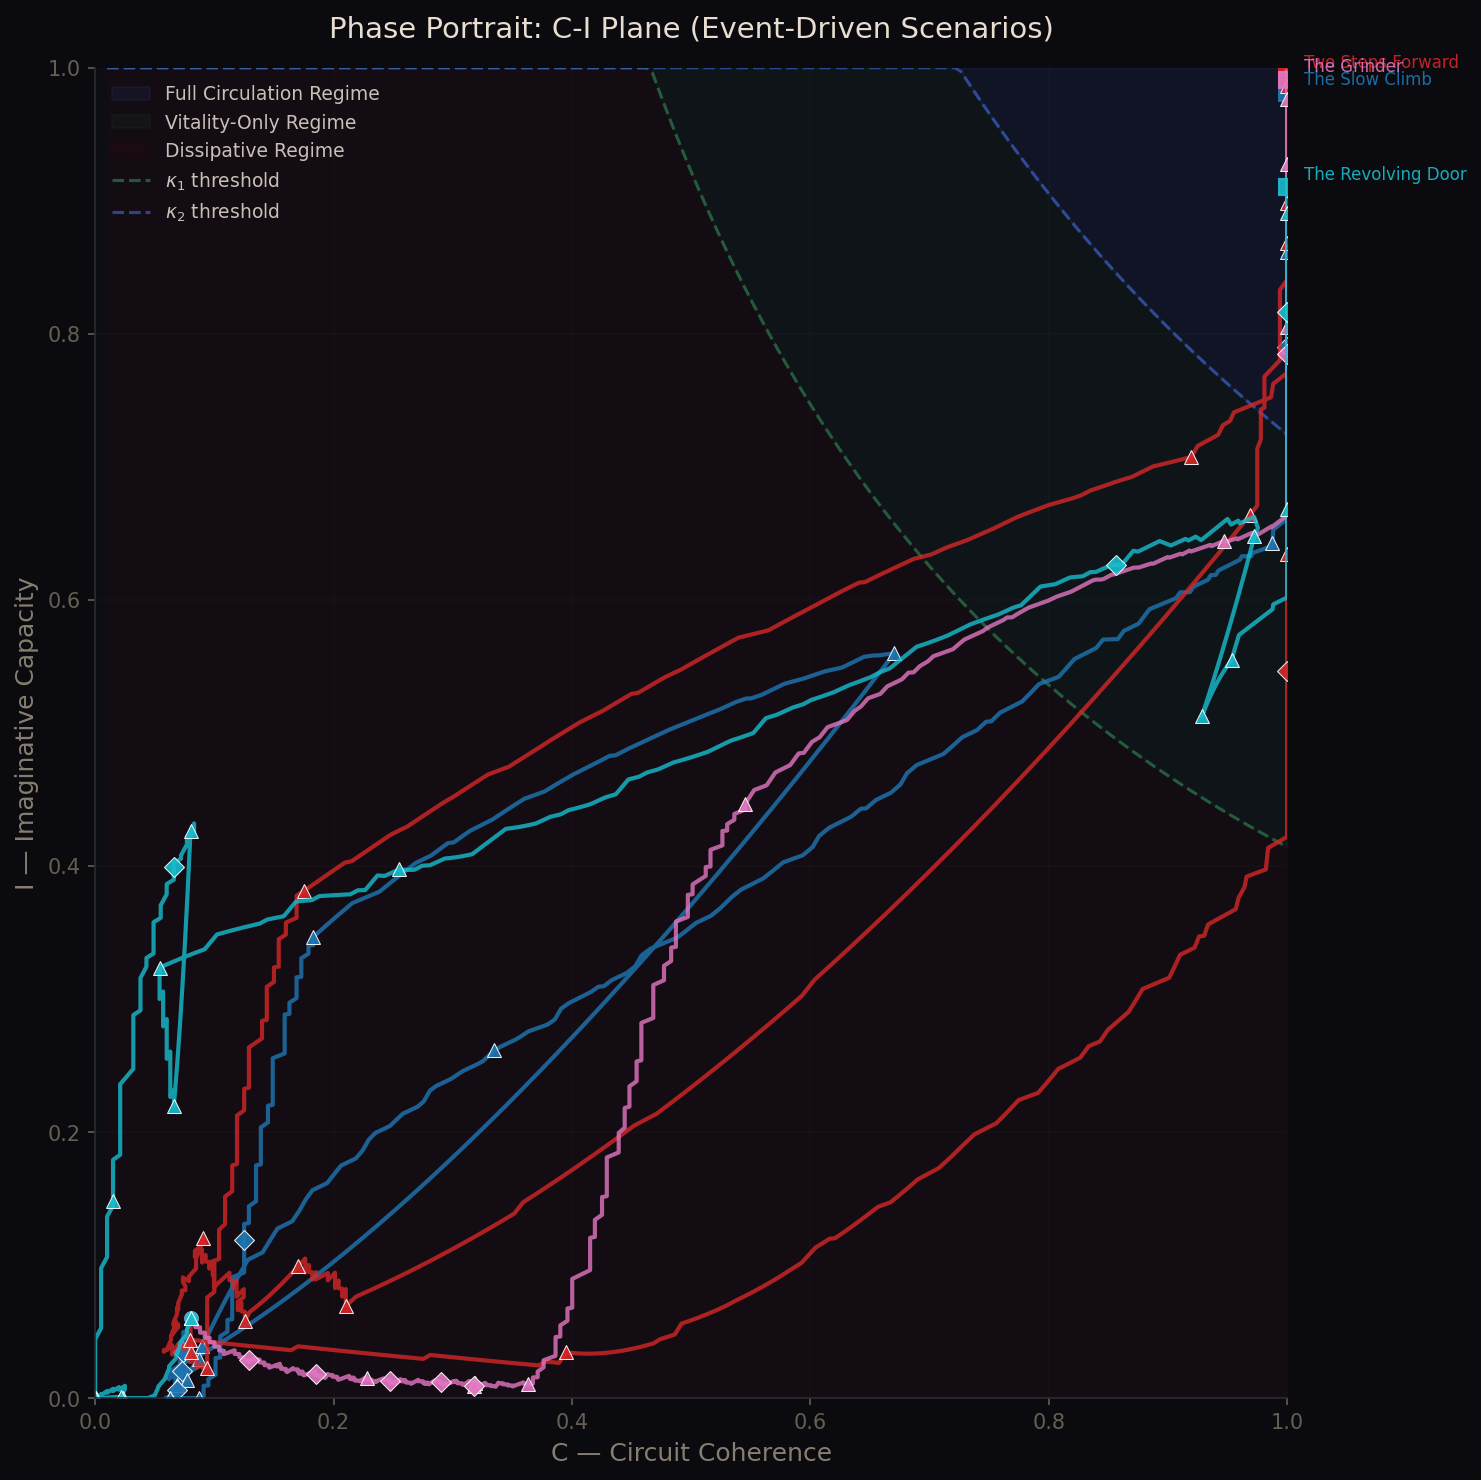
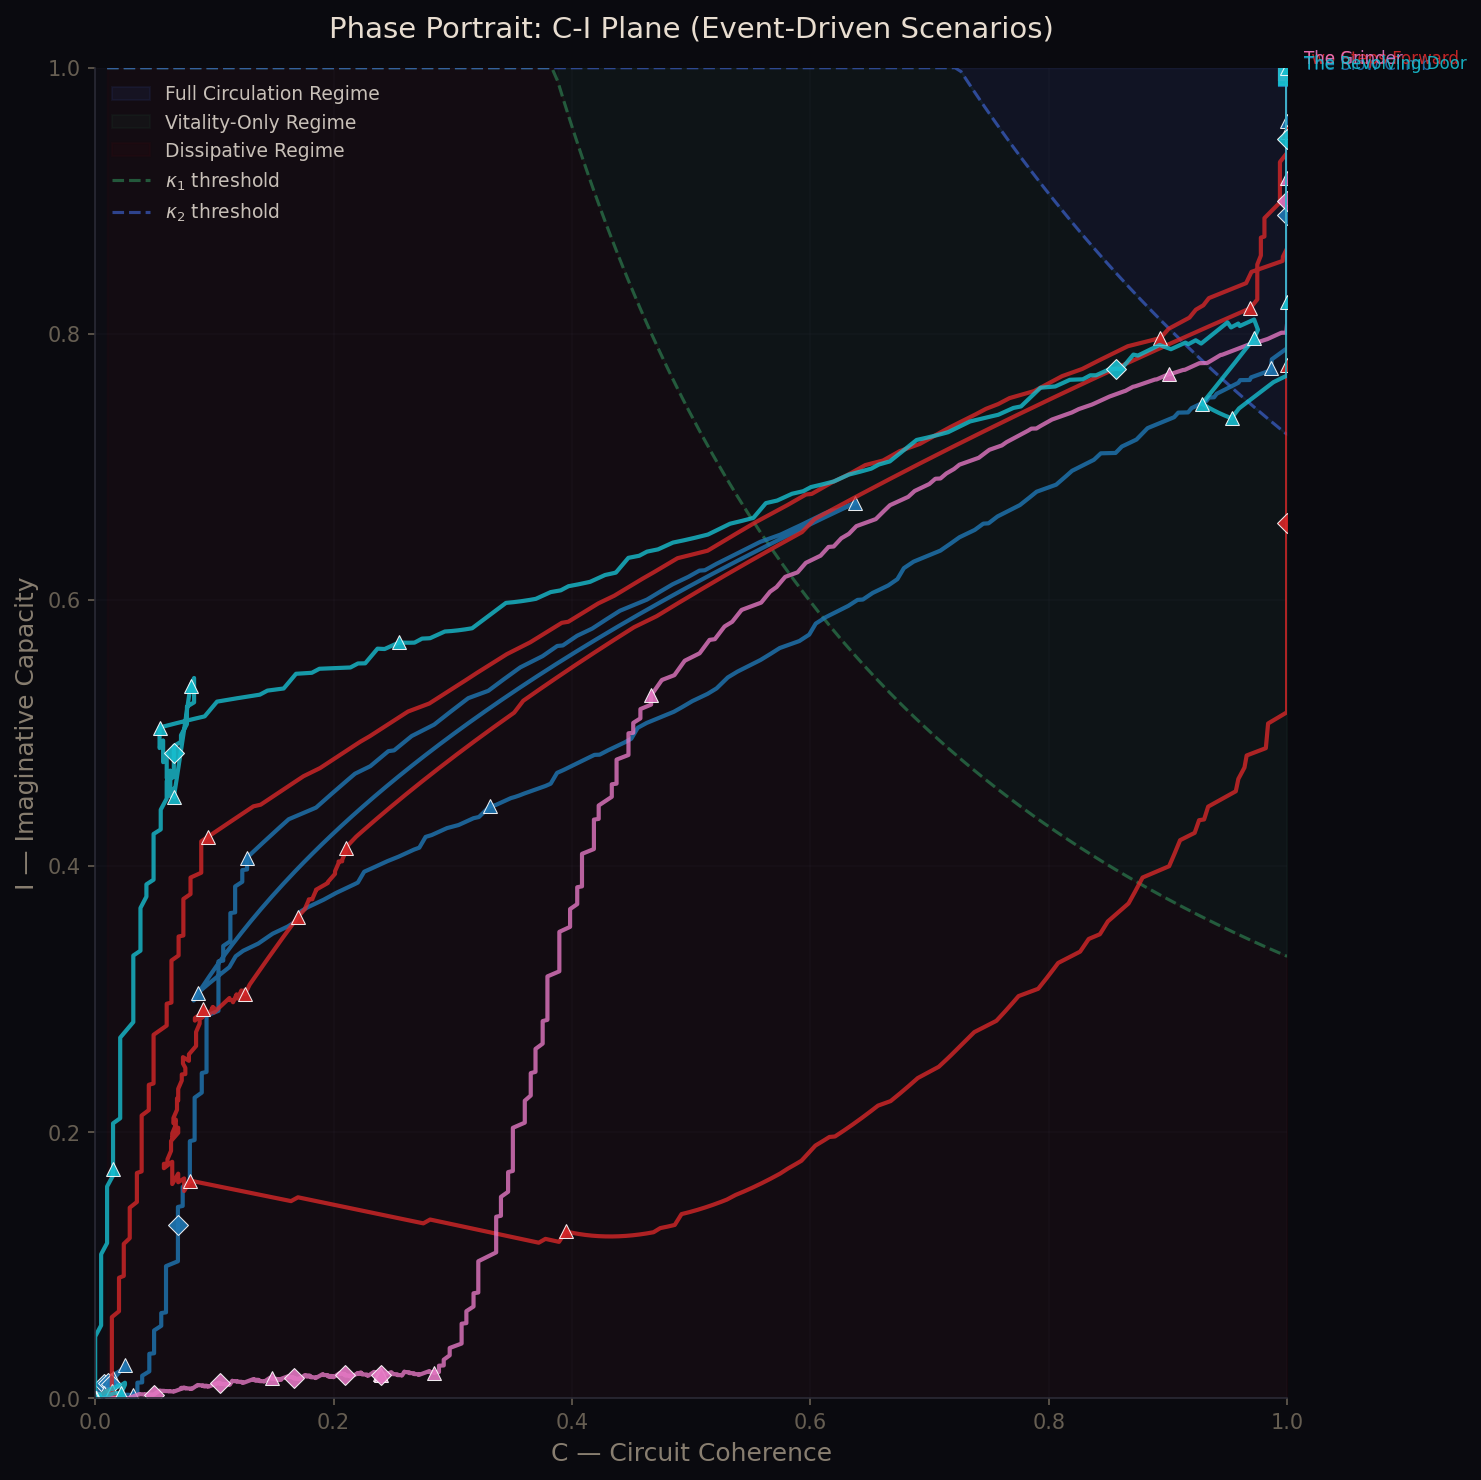
Use addiction steady-state as initial conditions for all scenarios
Ran the addiction baseline (S=2.0, N=0.5, D_jing=0.7) to convergence at
5000 days to find the true rock-bottom steady state: phi_jing=0.006,
phi_qi=0.005, phi_shen=0, C=0, I=0. All event scenarios now start from
this analytically grounded depletion rather than hand-picked values.

diff --git a/holon_event_sim.py b/holon_event_sim.py
@@ -332,10 +332,11 @@ def run_event_scenario(
 
 # ── Scenarios ────────────────────────────────────────────────────────────
 
-# Rock-bottom initial conditions: years of daily porn + frequent ejaculation.
-# Severely depleted reserves, fragmented circuitry, near-zero imagination.
+# Rock-bottom initial conditions: steady state of the addiction baseline
+# (S=2.0, N=0.5, D_jing=0.7, D_qi=0.15) run to convergence (5000 days).
+# Total depletion — the spring barely trickles, infrastructure destroyed.
 def _rock_bottom_ic():
-    return dict(phi_jing_0=1.2, phi_qi_0=0.8, phi_shen_0=0.02, C_0=0.08, I_0=0.06)
+    return dict(phi_jing_0=0.006, phi_qi_0=0.005, phi_shen_0=0.0, C_0=0.0, I_0=0.0)
 
 # The active addiction baseline driving variables
 _ADDICTION_DRIVES = dict(H=0.0, E=0.05, S=2.0, N=0.5, G=0.0, Rc=0.0,
